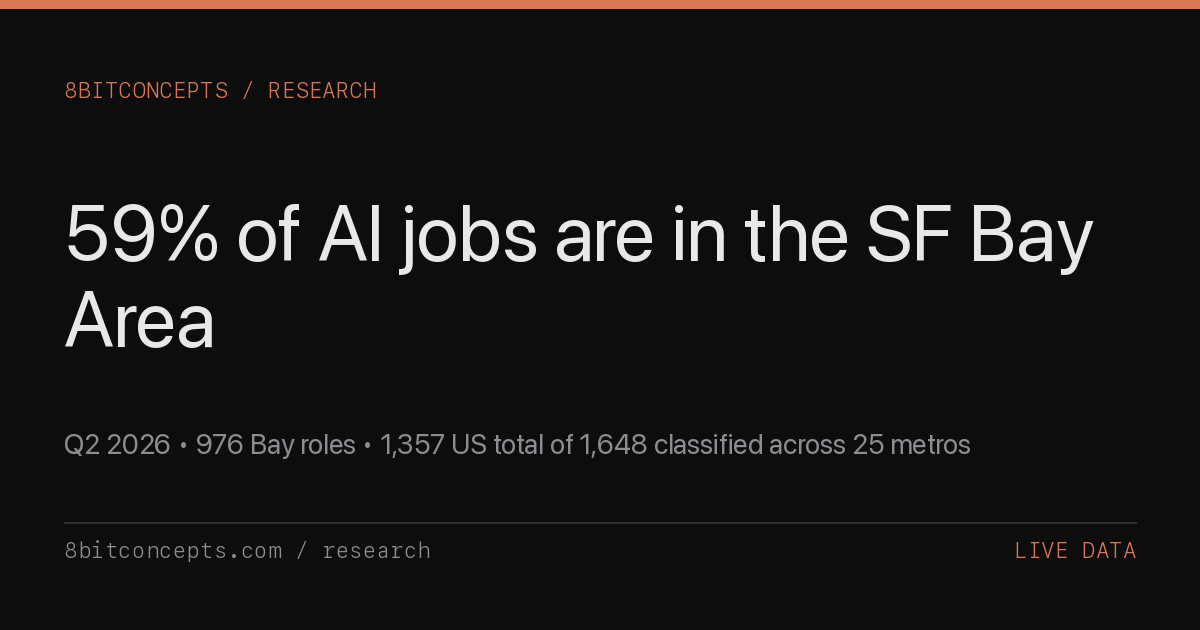
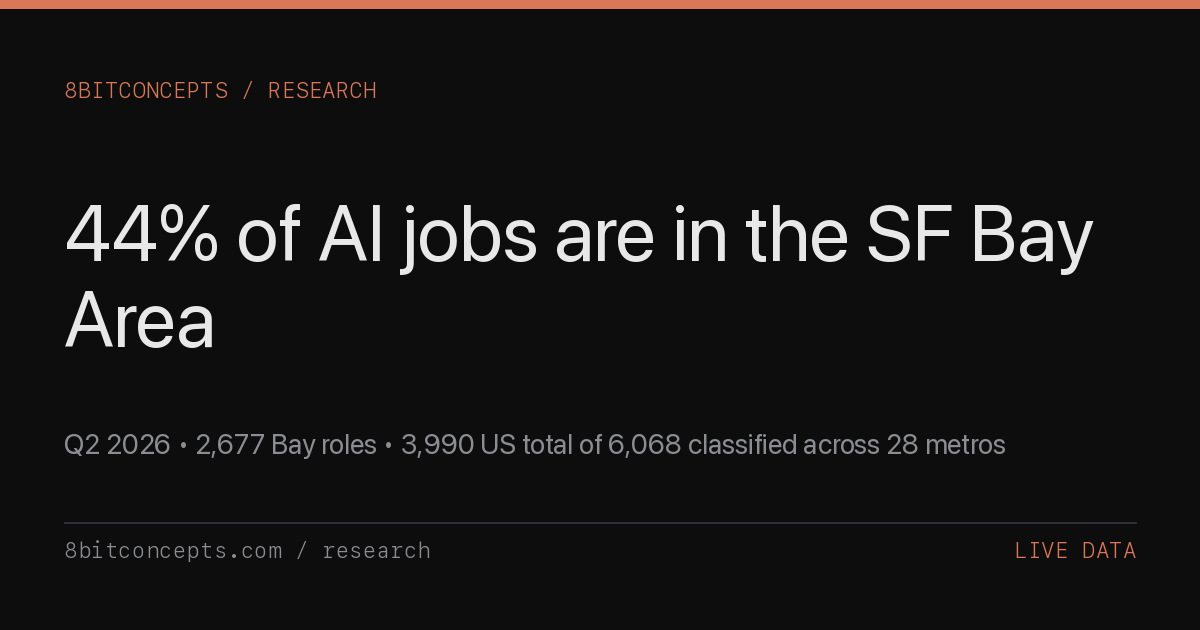
hiring-geography: auto-regenerate 2026-07-27

diff --git a/research/q2-2026-ai-hiring-geography.html b/research/q2-2026-ai-hiring-geography.html
@@ -5,11 +5,11 @@
   <meta name="viewport" content="width=device-width, initial-scale=1.0" />
   <meta name="referrer" content="strict-origin-when-cross-origin" />
   <meta name="color-scheme" content="dark light" />
-  <meta name="last-updated" content="2026-07-20" />
+  <meta name="last-updated" content="2026-07-27" />
   <title>Q2 2026 AI Hiring by Geography -- 8bitconcepts</title>
-  <meta name="description" content="Live analysis: 82% of AI/ML roles are in the US, 59% in SF Bay Area alone. European AI salaries 8% below US median ($235,588 vs $256,849). Top 15 cities by AI role count, regional salary, remote vs onsite mix. Auto-regenerated weekly." />
+  <meta name="description" content="Live analysis: 66% of AI/ML roles are in the US, 44% in SF Bay Area alone. European AI salaries within 3% of US median ($246,520 vs $246,779). Top 15 cities by AI role count, regional salary, remote vs onsite mix. Auto-regenerated weekly." />
   <meta property="og:title" content="Q2 2026 AI Hiring by Geography -- 8bitconcepts" />
-  <meta property="og:description" content="82% of AI/ML roles are US-based. 59% in SF Bay Area. Europe AI pay 8% below US median. 1,648 classified postings, 2026-07-20." />
+  <meta property="og:description" content="66% of AI/ML roles are US-based. 44% in SF Bay Area. Europe AI pay within 3% of US median. 6,068 classified postings, 2026-07-27." />
   <meta property="og:type" content="article" />
   <meta property="og:url" content="https://8bitconcepts.com/research/q2-2026-ai-hiring-geography.html" />
   <meta property="og:image" content="https://8bitconcepts.com/research/og/q2-2026-ai-hiring-geography.png" />
@@ -17,7 +17,7 @@
   <meta property="og:image:height" content="630" />
   <meta name="twitter:card" content="summary_large_image" />
   <meta name="twitter:title" content="Q2 2026 AI Hiring by Geography" />
-  <meta name="twitter:description" content="59% of AI/ML jobs are in the SF Bay Area. Europe pays 8% below US median. 2026-07-20." />
+  <meta name="twitter:description" content="44% of AI/ML jobs are in the SF Bay Area. Europe pays within 3% of US median. 2026-07-27." />
   <meta name="twitter:image" content="https://8bitconcepts.com/research/og/q2-2026-ai-hiring-geography.png" />
   <link rel="canonical" href="https://8bitconcepts.com/research/q2-2026-ai-hiring-geography.html" />
   <link rel="preconnect" href="https://fonts.googleapis.com" />
@@ -478,10 +478,10 @@
     "@context": "https://schema.org",
     "@type": "Article",
     "headline": "Q2 2026 AI Hiring by Geography",
-    "description": "Live analysis of AI engineering hiring by geography from aidevboard.com: top cities, regional salary premiums, the SF/Bay Area concentration, Europe vs US salary gap, remote-vs-city mix, and actionable takeaways for job seekers and hiring managers. Across 1,648 classified postings.",
+    "description": "Live analysis of AI engineering hiring by geography from aidevboard.com: top cities, regional salary premiums, the SF/Bay Area concentration, Europe vs US salary gap, remote-vs-city mix, and actionable takeaways for job seekers and hiring managers. Across 6,068 classified postings.",
     "url": "https://8bitconcepts.com/research/q2-2026-ai-hiring-geography.html",
     "datePublished": "2026-04-17",
-    "dateModified": "2026-07-20",
+    "dateModified": "2026-07-27",
     "author": {"@type": "Organization", "name": "8bitconcepts", "url": "https://8bitconcepts.com"},
     "publisher": {"@type": "Organization", "name": "8bitconcepts", "url": "https://8bitconcepts.com"},
     "image": "https://8bitconcepts.com/research/og/q2-2026-ai-hiring-geography.png",
@@ -521,10 +521,10 @@
 
     <h1>Q2 2026 AI Hiring by Geography</h1>
 
-    <p class="subtitle">Live geographic breakdown of 1,648 location-classified AI/ML engineering roles. 82% US &mdash; 59% in the Bay Area alone. Europe pays 8% below US median. Data derived from <a href="https://aidevboard.com/api/v1/jobs">aidevboard.com/api/v1/jobs</a>.</p>
+    <p class="subtitle">Live geographic breakdown of 6,068 location-classified AI/ML engineering roles. 66% US &mdash; 44% in the Bay Area alone. Europe pays within 3% of US median. Data derived from <a href="https://aidevboard.com/api/v1/jobs">aidevboard.com/api/v1/jobs</a>.</p>
 
     <div class="meta">
-      <span class="meta-date">2026-07-20</span>
+      <span class="meta-date">2026-07-27</span>
       <span class="meta-tag">Live Data</span>
       <span class="meta-read">~850 words</span>
     </div>
@@ -533,26 +533,26 @@
 
       <h2>Executive summary</h2>
 
-      <p><strong>82%</strong> of 1,648 location-classified AI/ML engineering roles are in the US &mdash; but European AI salaries run 8% below US median ($235,588 vs $256,849 average for disclosed postings). <strong>59%</strong> of the whole index is concentrated in the San Francisco Bay Area alone (976 roles across 145 companies &mdash; Anthropic, OpenAI, Meta, Scale AI, Applied Intuition, Waymo). Remote-friendly postings are 14% of the market. Geography is destiny for AI supply; for salary it's less so.</p>
+      <p><strong>66%</strong> of 6,068 location-classified AI/ML engineering roles are in the US &mdash; but European AI salaries run within 3% of US median ($246,520 vs $246,779 average for disclosed postings). <strong>44%</strong> of the whole index is concentrated in the San Francisco Bay Area alone (2,677 roles across 239 companies &mdash; Anthropic, OpenAI, Meta, Scale AI, Applied Intuition, Waymo). Remote-friendly postings are 12% of the market. Geography is destiny for AI supply; for salary it's less so.</p>
 
       <div class="stat-row">
         <div class="stat-box">
-          <div class="stat-num">82%</div>
-          <div class="stat-label">of classified AI/ML roles are in the US (1,357 of 1,648)</div>
+          <div class="stat-num">66%</div>
+          <div class="stat-label">of classified AI/ML roles are in the US (3,990 of 6,068)</div>
         </div>
         <div class="stat-box">
-          <div class="stat-num">59%</div>
-          <div class="stat-label">of the entire index is in SF Bay Area (976 roles)</div>
+          <div class="stat-num">44%</div>
+          <div class="stat-label">of the entire index is in SF Bay Area (2,677 roles)</div>
         </div>
         <div class="stat-box">
-          <div class="stat-num">-8.3%</div>
+          <div class="stat-num">-0.1%</div>
           <div class="stat-label">Europe vs US average salary (disclosed postings only)</div>
         </div>
       </div>
 
       <h2>The top cities</h2>
 
-      <p>Across the 1,648 location-classified AI/ML engineering postings, the top 15 metros look like this. Role count, distinct company count, and average disclosed salary for each.</p>
+      <p>Across the 6,068 location-classified AI/ML engineering postings, the top 15 metros look like this. Role count, distinct company count, and average disclosed salary for each.</p>
 
       <table class="data-table">
         <thead>
@@ -567,21 +567,21 @@
           </tr>
         </thead>
         <tbody>
-          <tr><td>San Francisco Bay Area</td><td>US-West</td><td class="num">976</td><td class="num">59.2%</td><td class="num">145</td><td class="num">$270,414</td><td class="num">954</td></tr>
-          <tr><td>Remote (US)</td><td>Remote</td><td class="num">192</td><td class="num">11.7%</td><td class="num">53</td><td class="num">$221,126</td><td class="num">191</td></tr>
-          <tr><td>New York</td><td>US-East</td><td class="num">189</td><td class="num">11.5%</td><td class="num">53</td><td class="num">$237,743</td><td class="num">185</td></tr>
-          <tr><td>Seattle</td><td>US-West</td><td class="num">74</td><td class="num">4.5%</td><td class="num">21</td><td class="num">$197,090</td><td class="num">73</td></tr>
-          <tr><td>Boston</td><td>US-East</td><td class="num">69</td><td class="num">4.2%</td><td class="num">12</td><td class="num">$212,182</td><td class="num">69</td></tr>
-          <tr><td>Remote (Global)</td><td>Remote</td><td class="num">37</td><td class="num">2.2%</td><td class="num">17</td><td class="num">$204,996</td><td class="num">31</td></tr>
-          <tr><td>Washington DC</td><td>US-East</td><td class="num">21</td><td class="num">1.3%</td><td class="num">6</td><td class="num">$235,488</td><td class="num">21</td></tr>
-          <tr><td>Toronto</td><td>Canada</td><td class="num">21</td><td class="num">1.3%</td><td class="num">6</td><td class="num">$199,767</td><td class="num">21</td></tr>
-          <tr><td>London</td><td>Europe</td><td class="num">18</td><td class="num">1.1%</td><td class="num">11</td><td class="num">$235,350</td><td class="num">8</td></tr>
-          <tr><td>Austin</td><td>US-South</td><td class="num">11</td><td class="num">0.7%</td><td class="num">8</td><td class="num">$206,133</td><td class="num">6</td></tr>
-          <tr><td>Vancouver</td><td>Canada</td><td class="num">6</td><td class="num">0.4%</td><td class="num">3</td><td class="num">$164,879</td><td class="num">6</td></tr>
-          <tr><td>Atlanta</td><td>US-South</td><td class="num">5</td><td class="num">0.3%</td><td class="num">3</td><td class="num">$158,245</td><td class="num">5</td></tr>
-          <tr><td>San Diego</td><td>US-West</td><td class="num">4</td><td class="num">0.2%</td><td class="num">1</td><td class="num">$165,000</td><td class="num">4</td></tr>
-          <tr><td>Chicago</td><td>US-Midwest</td><td class="num">4</td><td class="num">0.2%</td><td class="num">3</td><td class="num">$171,550</td><td class="num">4</td></tr>
-          <tr><td>Singapore</td><td>APAC</td><td class="num">4</td><td class="num">0.2%</td><td class="num">1</td><td class="num">&mdash;</td><td class="num">0</td></tr>
+          <tr><td>San Francisco Bay Area</td><td>US-West</td><td class="num">2,677</td><td class="num">44.1%</td><td class="num">239</td><td class="num">$263,811</td><td class="num">1,506</td></tr>
+          <tr><td>New York</td><td>US-East</td><td class="num">691</td><td class="num">11.4%</td><td class="num">127</td><td class="num">$229,776</td><td class="num">387</td></tr>
+          <tr><td>Remote (US)</td><td>Remote</td><td class="num">400</td><td class="num">6.6%</td><td class="num">93</td><td class="num">$218,729</td><td class="num">303</td></tr>
+          <tr><td>London</td><td>Europe</td><td class="num">398</td><td class="num">6.6%</td><td class="num">76</td><td class="num">$247,164</td><td class="num">14</td></tr>
+          <tr><td>Remote (Global)</td><td>Remote</td><td class="num">333</td><td class="num">5.5%</td><td class="num">90</td><td class="num">$207,243</td><td class="num">110</td></tr>
+          <tr><td>Bangalore</td><td>APAC</td><td class="num">182</td><td class="num">3.0%</td><td class="num">44</td><td class="num">&mdash;</td><td class="num">0</td></tr>
+          <tr><td>Boston</td><td>US-East</td><td class="num">179</td><td class="num">2.9%</td><td class="num">22</td><td class="num">$200,395</td><td class="num">153</td></tr>
+          <tr><td>Austin</td><td>US-South</td><td class="num">162</td><td class="num">2.7%</td><td class="num">26</td><td class="num">$191,423</td><td class="num">48</td></tr>
+          <tr><td>Seattle</td><td>US-West</td><td class="num">145</td><td class="num">2.4%</td><td class="num">37</td><td class="num">$200,999</td><td class="num">112</td></tr>
+          <tr><td>Paris</td><td>Europe</td><td class="num">113</td><td class="num">1.9%</td><td class="num">20</td><td class="num">&mdash;</td><td class="num">0</td></tr>
+          <tr><td>Singapore</td><td>APAC</td><td class="num">112</td><td class="num">1.8%</td><td class="num">32</td><td class="num">$215,000</td><td class="num">2</td></tr>
+          <tr><td>Toronto</td><td>Canada</td><td class="num">109</td><td class="num">1.8%</td><td class="num">26</td><td class="num">$208,346</td><td class="num">45</td></tr>
+          <tr><td>Amsterdam</td><td>Europe</td><td class="num">82</td><td class="num">1.4%</td><td class="num">11</td><td class="num">&mdash;</td><td class="num">0</td></tr>
+          <tr><td>Munich</td><td>Europe</td><td class="num">73</td><td class="num">1.2%</td><td class="num">11</td><td class="num">&mdash;</td><td class="num">0</td></tr>
+          <tr><td>Hyderabad</td><td>APAC</td><td class="num">59</td><td class="num">1.0%</td><td class="num">5</td><td class="num">&mdash;</td><td class="num">0</td></tr>
         </tbody>
       </table>
 
@@ -593,27 +593,27 @@
         <div class="bar-row">
           <div class="bar-label">US</div>
           <div class="bar-wrap"><div class="bar" style="width:100.0%;"></div></div>
-          <div class="bar-value">1,357</div>
+          <div class="bar-value">3,990</div>
         </div>
         <div class="bar-row">
           <div class="bar-label">Europe</div>
-          <div class="bar-wrap"><div class="bar" style="width:1.8%;"></div></div>
-          <div class="bar-value">25</div>
+          <div class="bar-wrap"><div class="bar" style="width:19.5%;"></div></div>
+          <div class="bar-value">780</div>
         </div>
         <div class="bar-row">
           <div class="bar-label">Canada</div>
-          <div class="bar-wrap"><div class="bar" style="width:2.1%;"></div></div>
-          <div class="bar-value">29</div>
+          <div class="bar-wrap"><div class="bar" style="width:3.5%;"></div></div>
+          <div class="bar-value">139</div>
         </div>
         <div class="bar-row">
           <div class="bar-label">APAC</div>
-          <div class="bar-wrap"><div class="bar" style="width:0.6%;"></div></div>
-          <div class="bar-value">8</div>
+          <div class="bar-wrap"><div class="bar" style="width:10.7%;"></div></div>
+          <div class="bar-value">426</div>
         </div>
         <div class="bar-row">
           <div class="bar-label">Remote</div>
-          <div class="bar-wrap"><div class="bar" style="width:16.9%;"></div></div>
-          <div class="bar-value">229</div>
+          <div class="bar-wrap"><div class="bar" style="width:18.4%;"></div></div>
+          <div class="bar-value">733</div>
         </div>
       </div>
 
@@ -623,15 +623,15 @@
 
       <h2>The SF / Bay Area hub</h2>
 
-      <p>The San Francisco Bay Area alone accounts for 59% of the classified market &mdash; 976 AI/ML roles across 145 companies. Average disclosed salary there: $270,414. NYC is a distant second at 11% (189 roles, $237,743). Every other US metro sits in single digits. This is <em>more concentrated</em> than the general-software geography, not less &mdash; despite ten years of &quot;everyone going remote,&quot; the AI frontier is more location-bound today than it was pre-pandemic.</p>
+      <p>The San Francisco Bay Area alone accounts for 44% of the classified market &mdash; 2,677 AI/ML roles across 239 companies. Average disclosed salary there: $263,811. NYC is a distant second at 11% (691 roles, $229,776). Every other US metro sits in single digits. This is <em>more concentrated</em> than the general-software geography, not less &mdash; despite ten years of &quot;everyone going remote,&quot; the AI frontier is more location-bound today than it was pre-pandemic.</p>
 
       <h2>Europe vs US salary gap</h2>
 
-      <p>The European AI market is small but high-quality: 2% of the classified index (25 roles). Average disclosed salary $235,588 vs $256,849 for US &mdash; a gap of <strong>-8.3%</strong>. The standard narrative (&quot;European tech pays 40-60% below US&quot;) under-reads what the AI subsegment pays specifically: frontier labs pay close to parity to win ML talent, and the top band in London / Zurich / Dublin is not meaningfully lower than top-band NYC for equivalent roles. The gap widens in the mid-market, not at the top.</p>
+      <p>The European AI market is small but high-quality: 13% of the classified index (780 roles). Average disclosed salary $246,520 vs $246,779 for US &mdash; a gap of <strong>-0.1%</strong>. The standard narrative (&quot;European tech pays 40-60% below US&quot;) under-reads what the AI subsegment pays specifically: frontier labs pay close to parity to win ML talent, and the top band in London / Zurich / Dublin is not meaningfully lower than top-band NYC for equivalent roles. The gap widens in the mid-market, not at the top.</p>
 
       <h2>Remote-vs-city mix</h2>
 
-      <p>Advertised remote AI/ML roles sit at 14% of the geographically-classified sample (229 of 1,648). Average salary for those remote postings: $218,874. This is consistent with the broader pattern in <a href="/research/q2-2026-remote-vs-onsite-ai-hiring.html">our workplace analysis</a>: remote is structural but not dominant &mdash; AI/ML engineering has stayed more onsite-heavy than general software, because GPU access, data-residency requirements, and in-person research-team density still matter.</p>
+      <p>Advertised remote AI/ML roles sit at 12% of the geographically-classified sample (733 of 6,068). Average salary for those remote postings: $215,670. This is consistent with the broader pattern in <a href="/research/q2-2026-remote-vs-onsite-ai-hiring.html">our workplace analysis</a>: remote is structural but not dominant &mdash; AI/ML engineering has stayed more onsite-heavy than general software, because GPU access, data-residency requirements, and in-person research-team density still matter.</p>
 
       <h2>Why the concentration exists</h2>
 
@@ -643,7 +643,7 @@
 
       <h2>Methodology</h2>
 
-      <p>Generated by paginating the live <a href="https://aidevboard.com/api/v1/jobs">aidevboard.com/api/v1/jobs</a> endpoint (public, unauthenticated) and bucketing each job's <code>location</code> field by substring match against 28 curated city/region patterns. Total jobs pulled this cycle: 2,100 &mdash; of those 1,648 matched a city/region bucket; 452 did not (rare employer-specific location strings). Location strings are employer-advertised free text, not filtered for permanent residency, visa status, or actual work eligibility &mdash; a job tagged &quot;San Francisco, CA&quot; may or may not also accept remote candidates. The <code>/api/v1/stats</code> endpoint does not currently expose a <code>locations</code> array; this paper reconstructs it from per-job data. Salary averages are midpoints of disclosed <code>salary_min</code> / <code>salary_max</code> bands, restricted to the subset of jobs in each city with a disclosure &mdash; sample sizes are noted in the &quot;Salary n&quot; column. This page auto-regenerates weekly (Mon 9:30 am PT).</p>
+      <p>Generated by paginating the live <a href="https://aidevboard.com/api/v1/jobs">aidevboard.com/api/v1/jobs</a> endpoint (public, unauthenticated) and bucketing each job's <code>location</code> field by substring match against 28 curated city/region patterns. Total jobs pulled this cycle: 8,300 &mdash; of those 6,068 matched a city/region bucket; 2,232 did not (rare employer-specific location strings). Location strings are employer-advertised free text, not filtered for permanent residency, visa status, or actual work eligibility &mdash; a job tagged &quot;San Francisco, CA&quot; may or may not also accept remote candidates. The <code>/api/v1/stats</code> endpoint does not currently expose a <code>locations</code> array; this paper reconstructs it from per-job data. Salary averages are midpoints of disclosed <code>salary_min</code> / <code>salary_max</code> bands, restricted to the subset of jobs in each city with a disclosure &mdash; sample sizes are noted in the &quot;Salary n&quot; column. This page auto-regenerates weekly (Mon 9:30 am PT).</p>
 
       <p><strong>Download raw data:</strong> The per-city + per-region dataset is mirrored as a public gist &mdash; <a href="https://gist.githubusercontent.com/unitedideas/885ce2f294693190179f48327b7275dd/raw/ai-hiring-geography.csv">CSV</a> &middot; <a href="https://gist.githubusercontent.com/unitedideas/885ce2f294693190179f48327b7275dd/raw/ai-hiring-geography.md">Markdown</a> &middot; <a href="https://gist.github.com/unitedideas/885ce2f294693190179f48327b7275dd">view on GitHub</a>. Auto-updated every weekly regeneration; canonical raw URLs are stable across revisions.</p>
 
@@ -693,9 +693,9 @@
     <div class="footnotes">
       <h4>Sources</h4>
       <ol>
-        <li>AI Dev Jobs &mdash; <a href="https://aidevboard.com/api/v1/jobs">/api/v1/jobs</a>, paginated walk pulled 2026-07-20T16:30:05Z. Public unauthenticated endpoint.</li>
+        <li>AI Dev Jobs &mdash; <a href="https://aidevboard.com/api/v1/jobs">/api/v1/jobs</a>, paginated walk pulled 2026-07-27T16:30:02Z. Public unauthenticated endpoint.</li>
         <li>AI Dev Jobs &mdash; <a href="https://aidevboard.com/api/v1/stats">/api/v1/stats</a> for top-line overview totals.</li>
-        <li>City/region bucketing is a substring match on the employer-advertised <code>location</code> field against 28 curated patterns; the <code>/api/v1/stats</code> endpoint does not currently expose a <code>locations</code> array. Jobs matching no bucket (452 this cycle) are excluded from percentages but preserved in the raw data.</li>
+        <li>City/region bucketing is a substring match on the employer-advertised <code>location</code> field against 28 curated patterns; the <code>/api/v1/stats</code> endpoint does not currently expose a <code>locations</code> array. Jobs matching no bucket (2,232 this cycle) are excluded from percentages but preserved in the raw data.</li>
         <li>Salary figures are midpoints of employer-advertised <code>salary_min</code> / <code>salary_max</code> bands, restricted to the subset in each city with a disclosure.</li>
       </ol>
     </div>
